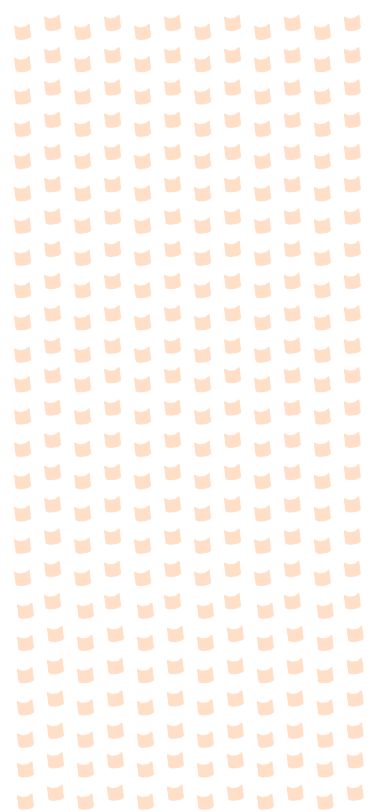
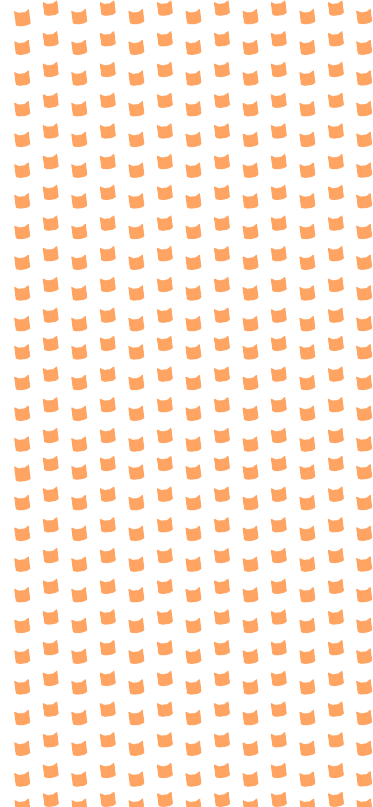
sofiiii

diff --git a/css/style-sair-da-conta.css b/css/style-sair-da-conta.css
@@ -1,0 +1,98 @@
+@media only screen and (max-width: 480px) {
+
+@font-face{
+    font-family: Heavitas;
+    src: url("../fonts/Heavitas.ttf");
+  }
+  @font-face{
+    font-family: Fira Sans Bold;
+    src: url("../fonts/fira-sans.bold.ttf");
+  }
+  @font-face{
+    font-family: Fira Sans;
+    src: url("../fonts/fira-sans.regular.ttf");
+  }
+
+img.logosair{
+    width: 50%;
+    margin-left: 25%;
+    display: flex;
+    
+    }
+    h1.sairdaconta{
+    box-sizing: border-box;
+    font-family: Fira Sans Bold;
+    color: #9e5fef;
+    text-align: center;
+    font-size: 25px;
+    
+    }
+    p.sair{
+    width: 83%;
+    background-color: rgba(255, 255, 255, 0);
+    box-sizing: border-box;
+    font-family: Fira Sans Bold;
+    color: #626262;
+    text-align: justify;
+    line-height: 22px;
+    margin-left: 8.5%;
+    font-size: 15px;
+    margin-bottom: 20%;
+    }
+    button.sair{
+    width: 85%;
+    height: 51px;
+    padding: 2px 2px 2px 2px;
+    border-radius: 15px;
+    background-image: linear-gradient(89.99311970570312deg, #4d16bb 0%, #9d21cb 95.48561645502186%);
+    border: none;
+    cursor: pointer;
+    font-family: Fira Sans Bold;
+    font-weight: 700;
+    color: #ffffff;
+    text-align: center;
+    line-height: normal;
+    margin-left: 7.5%;
+    
+    }
+    
+    button.cancelarsair{
+    width: 85%;
+    height: 51px;
+    padding: 2px 2px 2px 2px;
+    border-radius: 15px;
+    border: 2px solid #4d16bb;
+    background-color: #f5f5f5;
+    box-sizing: border-box;
+    font-family: Fira Sans Bold;
+    font-weight: 700;
+    color: #4d16bb;
+    text-align: center;
+    line-height: normal;
+    margin-left: 7.5%;
+    
+    }
+    .popupsair{
+    width: 92%;
+    margin: 1% 0% 0% 1%;
+    height: 90%;
+    padding: 6% 3% 6% 3%;
+    border-radius: 30px;
+    background-color:#ffffff;
+    position: absolute;
+    }
+    
+    .corpo{
+        background-image: url(../imagens/fundogatos.png);
+    }
+    .popupsair-borda{
+      background-image:  linear-gradient(89.99311970570312deg, #4d16bb 0%, #9d21cb 95.48561645502186%);
+      width: 70%;
+      margin-left: 13%;
+      margin-top: 20%;
+      height: 70%;
+      position: absolute;
+      border-radius: 30px;
+    }
+    
+}

diff --git a/css/style-480.css b/css/style-480.css
@@ -741,89 +741,6 @@ margin-top: 420px;
 }
 /*fim post*/
 
-/*inicio sair*/
-img.logosair{
-    width: 203px;
-    height: 121px;
-    box-sizing: border-box;
-    transform: translate(50px, 0px);
-    
-    }
-    h1.sairdaconta{
-    background-color: rgba(255, 255, 255, 0);
-    box-sizing: border-box;
-    font-family: Fira Sans Bold;
-    font-weight: 800;
-    color: #4d16bb;
-    text-align: right;
-    line-height: normal;
-    transform: translate(-15px, 0px);
-    
-    }
-    p.sair{
-    width: 180px;
-    background-color: rgba(255, 255, 255, 0);
-    box-sizing: border-box;
-    font-family: Fira Sans Bold;
-    font-weight: 700;
-    color: #626262;
-    text-align: justify;
-    line-height: 27px;
-    transform: translate(50px, 30px);
-    }
-    button.sair{
-    width: 200px;
-    height: 51px;
-    padding: 2px 2px 2px 2px;
-    border-radius: 22px;
-    background-image: linear-gradient(89.99311970570312deg, #4d16bb 0%, #9d21cb 95.48561645502186%);
-    border: none;
-    cursor: pointer;
-    font-family: Fira Sans Bold;
-    font-weight: 700;
-    color: #ffffff;
-    text-align: center;
-    line-height: normal;
-    transform: translate(40px, 50px);
-    
-    }
-    
-    button.cancelarsair{
-    width: 200px;
-    height: 51px;
-    padding: 2px 2px 2px 2px;
-    border-radius: 22px;
-    border: 3px solid #4d16bb;
-    background-color: #f5f5f5;
-    box-sizing: border-box;
-    font-family: Fira Sans Bold;
-    font-weight: 700;
-    color: #4d16bb;
-    text-align: center;
-    line-height: normal;
-    transform: translate(40px, 50px);
-    
-    }
-    .popupsair{
-    width: 300px;
-    height: 480px;
-    padding: 2px 2px 2px 2px;
-    border-radius: 30px;
-    border: 4px solid;
-    border-color: #4d16bb;
-    background-color:#ffffff;
-    box-sizing: border-box;
-    transform: translate(50px, -700px);
-    position: absolute;
-    }
-    
-    .estampasair{
-    background-image: url(../imagens/fundogatos.png);
-    width: 100%;
-    height: 873px;
-    position: relative;
-    }
-    /*final sair*/
     
     /*inicio perguntar*/
     button.cancelarpergunta{

diff --git a/sair.html b/sair.html
@@ -4,23 +4,22 @@
     <meta charset="UTF-8">
     <meta http-equiv="X-UA-Compatible" content="IE=edge">
     <meta name="viewport" content="width=device-width, initial-scale=1.0">
-    <link rel="stylesheet" href="./css/style.css">
-    <link rel="stylesheet" href="./css/style-480.css">
-    <title>ComoQueFaz?</title>
+    <link rel="stylesheet" href="./css/style-sair-da-conta.css">
+    <title>Como que Faz | Sair da Conta</title>
+    <script>
+        function PaginaAnterior() {
+            window.history.back()
+        }
+        </script>
 </head>
-<body>
-    <div class="Sairdaconta">
-     <div class="estampasair"> </div>
-
-        <div class="popupsair">
+<body class="corpo">
+        <div class="popupsair-borda"><div class="popupsair">
          <img class="logosair" src="./imagens/logo completa.png" alt="logo">
          <h1 class="sairdaconta">Sair da conta?</h1>
          <p class="sair">Isso se aplicará apenas a esta conta, e você continuará conectado às suas outras contas.</p>
          <button class="sair">Sair</button>
          <br></br>
-         <button class="cancelarsair">Cancelar</button>
-         </div>
-   
-      </div>
+         <button class="cancelarsair" onclick="PaginaAnterior()">Cancelar</button>
+         </div></div>
 </body>
 </html>
